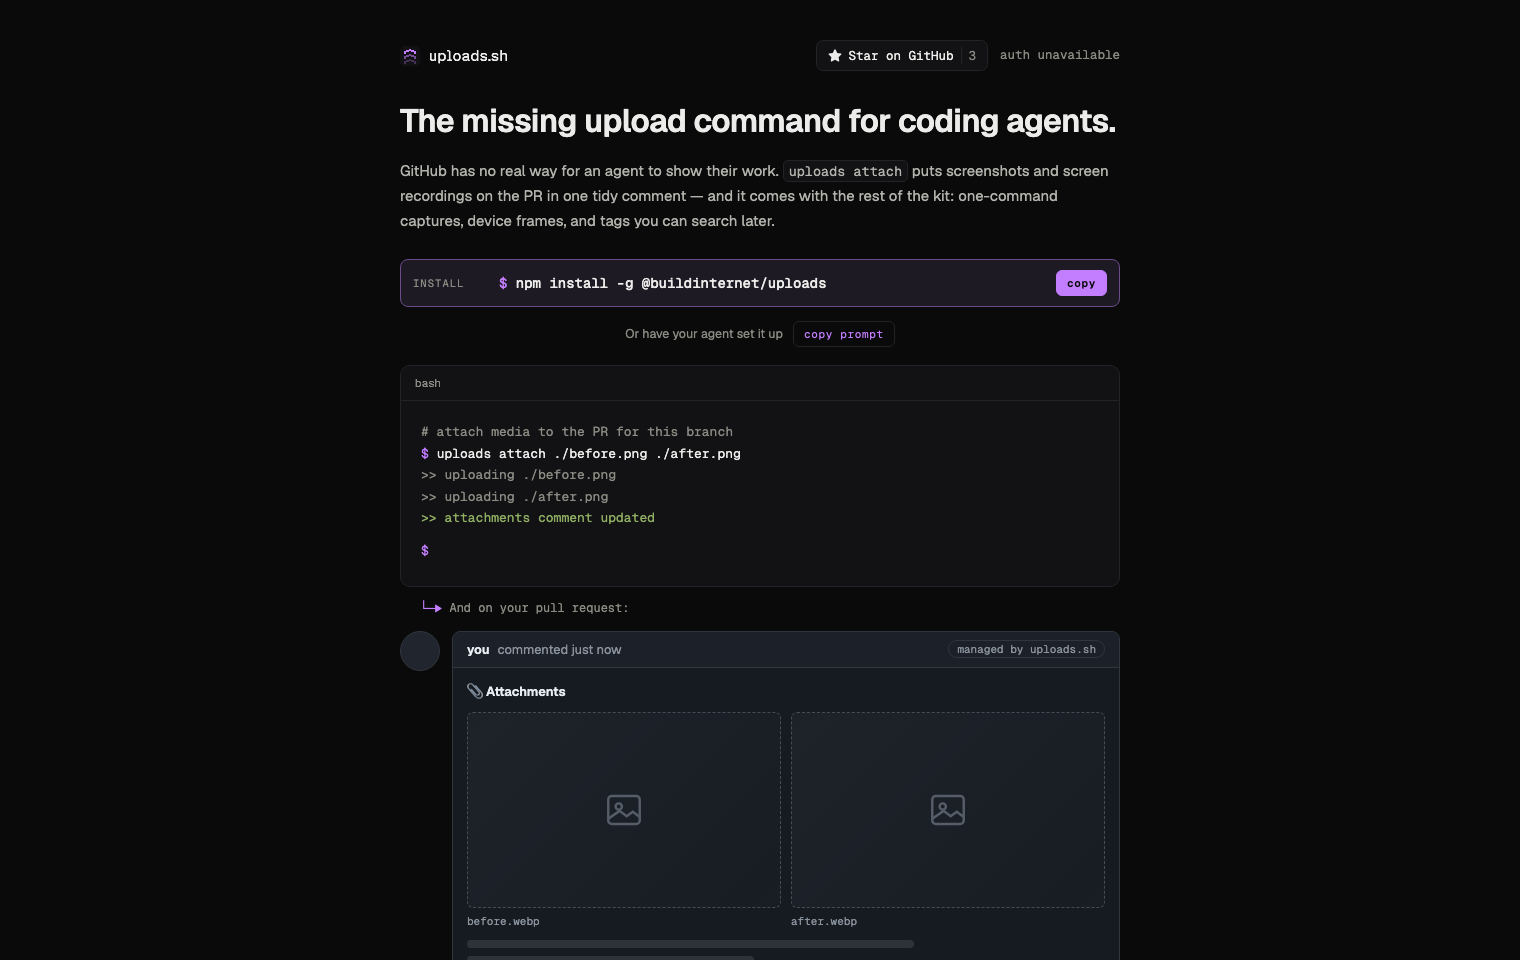
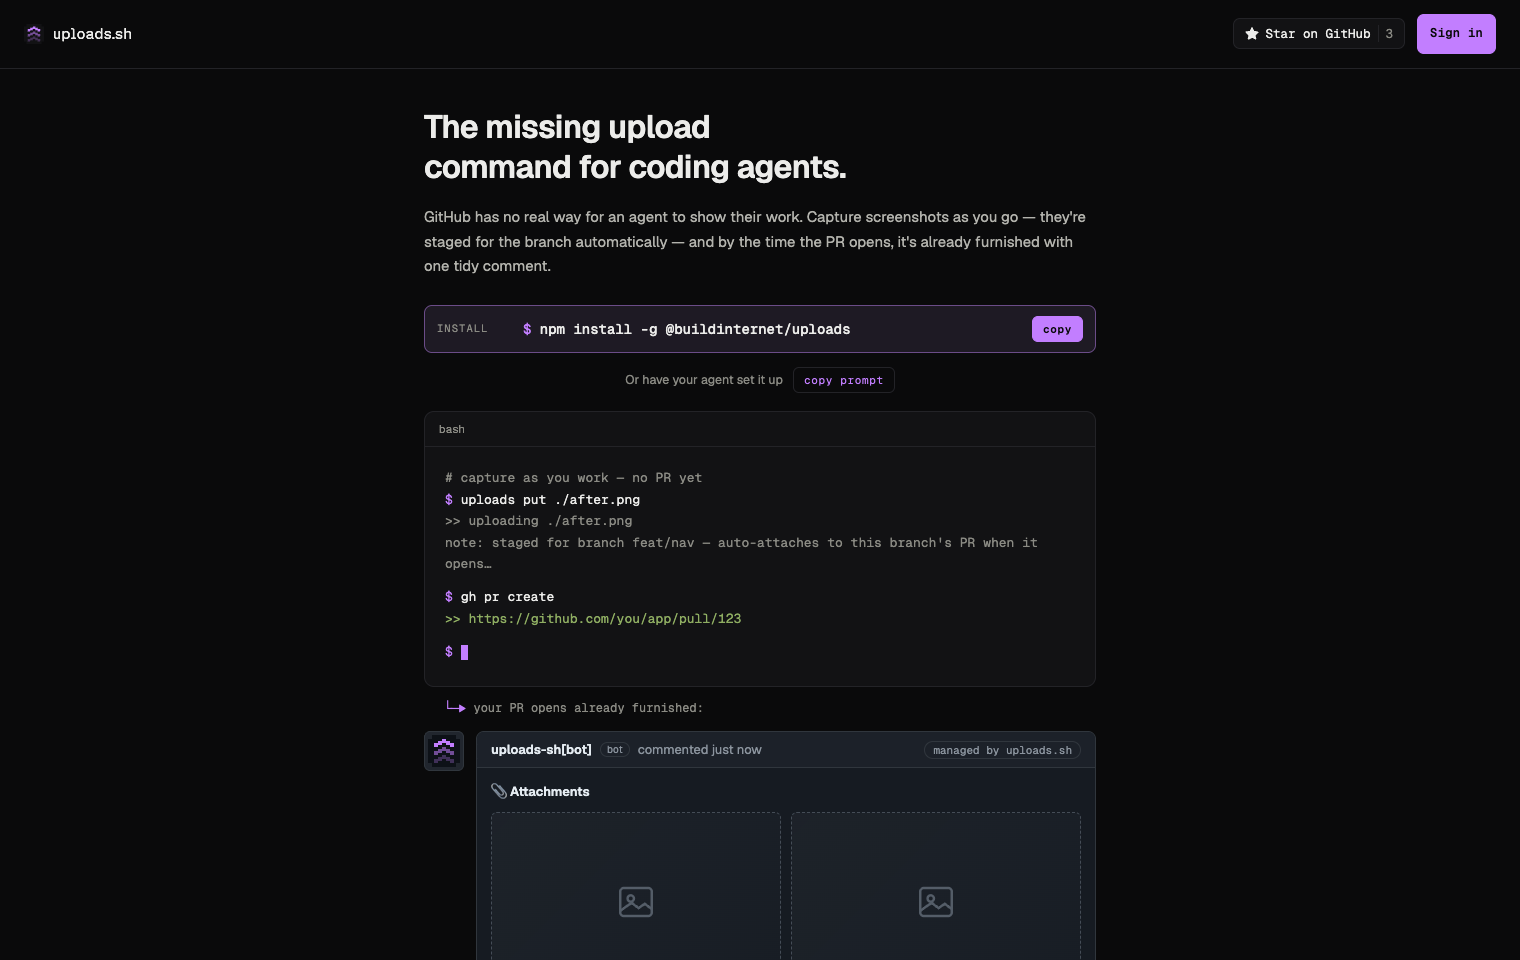
docs: refresh README and site docs for the staged loop and self-serve access
Bring the README and public site docs in line with the shipped product:

- README: lead with the staged loop (capture as you work -> PR opens
  furnished) instead of attach-first; add a "What it looks like" section
  with the managed before/after comment; fill in the repo/docs tables
  (billing, email, errors, plugins/claude, deletion, releasing); fix the
  dev-stack URL (uploads.localhost); soften the active-development note.
- Document before/after pairing (--state) on the Attach & share page,
  the docs hub, and llms.txt -- it shipped after the site reframe and was
  undocumented.
- Correct the access story everywhere it still said "invitation only":
  self-serve workspace creation is live (reference, docs hub, terms,
  auth.md, llms.txt, README).
- GitHub App staging section now leads with the bare-put default rather
  than --branch.
- Recapture the homepage hero screenshot.

diff --git a/README.md b/README.md
@@ -6,16 +6,18 @@
 
 **The missing upload command for coding agents.**
 
-A lightweight file-hosting service on Cloudflare Workers. One command —
-`uploads attach` — hosts a file at a stable public URL and keeps one tidy
-attachments comment on the PR. Built on [files-sdk](https://files-sdk.dev) so
-the storage layer is provider-agnostic (R2 today; any files-sdk adapter later).
+A lightweight file-hosting service on Cloudflare Workers. Agents capture
+screenshots as they work — each one staged to the branch automatically — so by
+the time the PR opens it is already furnished with one tidy attachments
+comment. Built on [files-sdk](https://files-sdk.dev) so the storage layer is
+provider-agnostic (R2 today; any files-sdk adapter later).
 
 <p>
   <a href="https://uploads.sh"><b>uploads.sh</b></a> &nbsp;·&nbsp;
   <a href="docs/"><b>Docs</b></a> &nbsp;·&nbsp;
   <a href="https://www.npmjs.com/package/@buildinternet/uploads"><b>npm →</b></a> &nbsp;·&nbsp;
   <a href="#use-it">Use it</a> &nbsp;·&nbsp;
+  <a href="#what-it-looks-like">What it looks like</a> &nbsp;·&nbsp;
   <a href="#whats-in-this-repo">What's in this repo</a> &nbsp;·&nbsp;
   <a href="#local-development">Develop</a>
 </p>
@@ -29,9 +31,8 @@ the storage layer is provider-agnostic (R2 today; any files-sdk adapter later).
 </p>
 
 <p><sub>
-  <b>Active development — not production-ready.</b> uploads.sh is being built in
-  the open and its APIs (including auth) will change without notice. Don't rely
-  on it for anything you can't afford to lose or re-key.
+  <b>Under active development.</b> uploads.sh is being built in the open, so
+  APIs (including auth) can still change. Feedback is welcome — open an issue.
 </sub></p>
 
 </div>
@@ -44,53 +45,81 @@ You add a screenshot to GitHub by dragging it into the comment box. Agents
 can't — GitHub's native image hosting only works through a browser session, so
 an agent that just captured a before/after has nowhere to put it.
 
-**uploads** gives agents that missing step: a CLI and REST API that host files
-at stable, public URLs and return ready-to-paste Markdown. `--pr`/`--issue`
-keys are hash-free, so re-uploading the same filename overwrites in place and
-the URL never changes, and a managed attachments comment keeps every file for
-a PR in one tidy place. Workspaces keep tenants (and their budgets and key
-policies) apart.
+**uploads** gives agents that missing step, and it works while the branch is
+still in progress. An agent runs `uploads put ./after.png` the moment a change
+is visible; on a branch that stages the file automatically — no PR required, no
+flag to remember. Capture at every milestone and there is nothing to reassemble
+at the end: when the PR opens, everything staged is promoted into a single
+managed attachments comment.
+
+Keys are hash-free, so re-uploading the same filename overwrites in place and
+the URL never changes — every embed of it updates at once. Workspaces keep
+tenants (and their budgets and key policies) apart.
 
 This repo is the source of the canonical deployment at
 [uploads.sh](https://uploads.sh): the API worker, auth worker, MCP server, the
 Astro web app, and the `@buildinternet/uploads` CLI (published to npm from
 [`packages/uploads`](packages/uploads)).
 
+## What it looks like
+
+One comment per PR, rewritten in place on every sync. Files tagged
+`--state before` and `--state after` pair into a side-by-side table; anything
+else lands below it.
+
+<div align="center">
+  <a href="https://github.com/buildinternet/uploads/pull/425#issuecomment-5051281079"><img src="docs/assets/readme-comment.png" alt="The managed attachments comment on a pull request, with a before/after pair rendered side by side under Before and After headings" width="760"></a>
+</div>
+
+<sub>The real comment on
+[#425](https://github.com/buildinternet/uploads/pull/425#issuecomment-5051281079).</sub>
+
+Pairing is by `--meta path=…` when several pairs share a comment (one `before`
+and one `after` per path), and falls back to filenames that differ only by a
+`before`/`after` token — `hero-before.webp` with `hero-after.webp`.
+
 ## Use it
 
-Install the CLI, sign in once, then attach media from a checked-out PR branch:
+Install the CLI and sign in once:
 
 ```bash
 npm install --global @buildinternet/uploads
 uploads login
+```
+
+Then capture as you work. On a branch, a bare `put` stages the file against
+that branch — no PR needed yet, and no flag to remember:
+
+```bash
+uploads put ./before.png --state before
+uploads put ./after.png --state after
+uploads staged                 # what's queued, and whether it will auto-attach
+```
+
+Open the PR however you normally would (`gh pr create`, the GitHub UI) and the
+staged files promote themselves into one managed attachments comment —
+instantly if the [GitHub App](https://uploads.sh/docs/github-app) is installed,
+otherwise on your next `uploads attach` (or `uploads attach --promote`).
+
+Already have a PR or issue open? Target it directly, no staging step:
+
+```bash
 uploads attach ./before.png ./after.png
 ```
 
-For a one-off run without a global install:
+`attach` detects the repository and current PR through `gh`, uploads all files,
+and creates or updates that same one comment. Both commands run under `npx
+@buildinternet/uploads …` without a global install.
 
-```bash
-npx @buildinternet/uploads login
-npx @buildinternet/uploads attach ./before.png ./after.png
-```
+Sign in with GitHub or a magic link, then create your own workspace or accept
+an invite into one — see [enrollment](docs/enrollment.md). Hosted files are
+public, including media attached to private repositories. Do not upload secrets
+or sensitive UI.
 
-`attach` detects the GitHub repository and current PR through `gh`, uploads
-all files, and creates or updates one managed attachments comment.
-
-No PR yet? Stage files against the branch while you work — `uploads attach
-./shot.png --branch` — and they are promoted into the PR's attachments
-automatically when one opens: instantly if the
-[GitHub App](https://uploads.sh/docs/github-app) is installed, otherwise on
-your first `uploads attach` (or `uploads attach --promote`) after the PR
-exists.
-
-An uploads.sh administrator invites your email to a workspace; `uploads login`
-opens a browser to sign in (GitHub or a magic link) and saves the resulting
-workspace token — see [enrollment](docs/enrollment.md). Hosted files are
-public, including media attached to private repositories. Do not upload
-secrets or sensitive UI.
-
-**Agent skills** — auto-triggering playbooks, installable into any agent
-runtime without checking out anything (`uploads install` runs these for you):
+**Teach your agent the loop.** `uploads install` wires in the agent skills and
+the MCP server, so future sessions capture at each visual milestone on their
+own instead of being asked. The skills also install standalone, into any agent
+runtime, without checking anything out:
 
 ```bash
 npx skills add buildinternet/uploads
@@ -114,8 +143,12 @@ routes are in [docs/api.md](docs/api.md).
 | `packages/storage/`          | `@uploads/storage` — files-sdk adapter factory            |
 | `packages/uploads/`          | `@buildinternet/uploads` — CLI + client, publishes to npm |
 | `packages/ui/`               | `@uploads/ui` — shared design system                      |
+| `packages/billing/`          | `@uploads/billing` — plans and limit resolution           |
+| `packages/email/`            | `@uploads/email` — transactional email templates          |
+| `packages/errors/`           | `@uploads/errors` — shared error codes and wire format    |
 | `skills/github-screenshots/` | Workflow skill — visuals into PRs/issues/share links      |
 | `skills/uploads-cli/`        | Agent skill for driving the CLI                           |
+| `plugins/claude/`            | Claude Code plugin — skills, MCP, pre-PR screenshot hook  |
 
 The workers and web app are separate deployables. All storage access goes
 through `createStorage()` in `packages/storage` — adding a provider is one new
@@ -131,8 +164,10 @@ case plus peer deps, no API changes.
 | [workspaces](docs/workspaces.md)             | Multi-tenant model, budgets, key policy, BYO-bucket |
 | [enrollment](docs/enrollment.md)             | Agent login, scopes, expiry, and migration          |
 | [admin-tokens](docs/admin-tokens.md)         | Minting, listing, and revoking upload tokens        |
+| [deletion](docs/deletion.md)                 | Workspace soft delete, grace period, and restore    |
 | [ops](docs/ops.md)                           | Operator runbook (limits, retention, secrets)       |
 | [deploy](docs/deploy.md)                     | Cloudflare setup and production deploy              |
+| [releasing](docs/releasing.md)               | Changesets and publishing the CLI to npm            |
 | [contract testing](docs/contract-testing.md) | Deployed smoke checks and release gate              |
 | [roadmap](docs/roadmap.md)                   | Planned features                                    |
 
@@ -149,7 +184,7 @@ pnpm bootstrap        # one-command setup: tooling, deps, env vars, local D1, de
 pnpm doctor           # diagnose the setup — reports what's missing and how to fix it
 
 pnpm dev              # API on :8787 (local R2 + KV + D1)
-pnpm dev:stack        # authenticated Auth + API + Web stack at 127.0.0.1:4321
+pnpm dev:stack        # authenticated Auth + API + Web stack at https://uploads.localhost
 pnpm check            # lint + format (the CI gate)
 pnpm typecheck        # wrangler types + tsc across workspaces
 ```

diff --git a/apps/web/public/auth.md b/apps/web/public/auth.md
@@ -36,10 +36,14 @@ Details: [enrollment docs](https://github.com/buildinternet/uploads/blob/main/do
 
 ## Getting workspace access
 
-An uploads.sh administrator invites your email address to the workspace's
-organization from the session-authenticated `/admin` UI. Accept the
-invitation (GitHub or magic-link sign-in), then run `uploads login` as above.
-There is no self-serve signup.
+Two paths, no `ADMIN_TOKEN` for either:
+
+- **Create your own.** Sign in (GitHub or magic-link) and link a GitHub
+  account, then create a workspace from `/account/workspaces` — or
+  `uploads login --workspace <name> --create`. Capped at three self-serve
+  workspaces per account.
+- **Accept an invitation.** A workspace owner/admin (or a site operator from
+  `/admin`) invites your email; accept it, then run `uploads login` as above.
 
 ## Using the credential
 